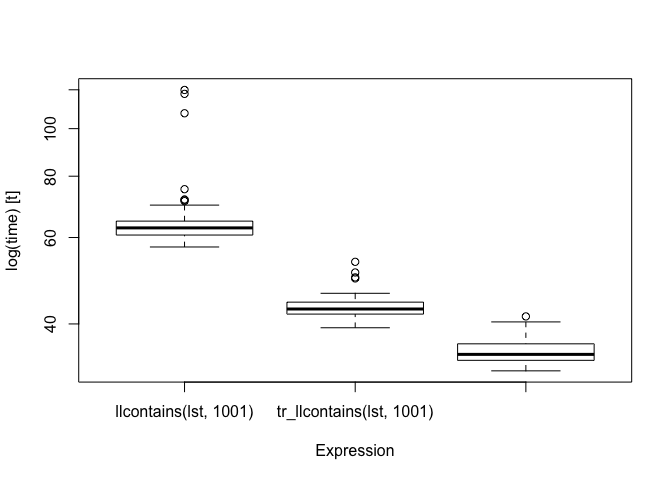
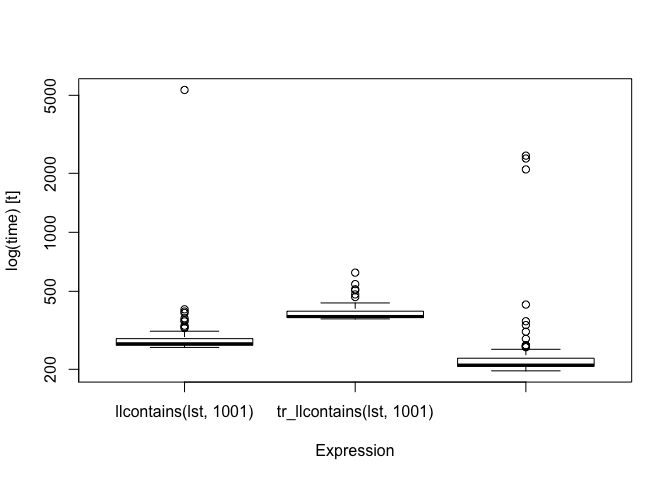
updated documentation to match the new pmatch (that doesn't have the cases function any longer)

diff --git a/README.md b/README.md
@@ -8,7 +8,7 @@
 [![Project Status: Active – The project has reached a stable, usable
 state and is being actively
 developed.](http://www.repostatus.org/badges/latest/active.svg)](http://www.repostatus.org/#active)
-[![Last-changedate](https://img.shields.io/badge/last%20change-2018--08--27-green.svg)](/commits/master)
+[![Last-changedate](https://img.shields.io/badge/last%20change-2018--12--19-green.svg)](/commits/master)
 [![packageversion](https://img.shields.io/badge/Package%20version-0.1.2.9000-green.svg?style=flat-square)](commits/master)
 [![Travis build
 status](https://travis-ci.org/mailund/tailr.svg?branch=master)](https://travis-ci.org/mailund/tailr)
@@ -140,9 +140,9 @@ bm <- microbenchmark::microbenchmark(factorial(n),
 bm
 #> Unit: microseconds
 #>               expr     min       lq      mean   median       uq      max
-#>       factorial(n) 513.691 553.7360 692.20023 588.7665 688.9380 4537.763
-#>    tr_factorial(n) 643.951 672.4245 749.39474 691.8510 729.9475 2066.655
-#>  loop_factorial(n)  40.158  40.6975  67.22614  41.4170  42.7735 2485.322
+#>       factorial(n) 502.353 592.2195 798.68890 676.7220 881.0735 4826.670
+#>    tr_factorial(n) 642.510 695.8220 773.12496 743.4500 776.2790 3023.561
+#>  loop_factorial(n)  48.411  50.1175  76.43362  51.3625  54.0435 2296.244
 #>  neval
 #>    100
 #>    100
@@ -168,11 +168,10 @@ recursive functions that matches different patterns of their input. A
 function for computing the length of a linked list can look like this:
 
 ``` r
-llength <- function(llist, acc = 0) {
-    cases(llist,
-          NIL -> acc,
-          CONS(car, cdr) -> llength(cdr, acc + 1))
-}
+llength <- case_func(acc = 0,
+   NIL -> acc,
+   CONS(car, cdr) -> llength(cdr, acc + 1)
+)
 ```
 
 ``` r
@@ -183,22 +182,31 @@ The function we generate is rather complicated
 
 ``` r
 body(tr_llength)
-#> .Primitive("{")(.tailr_llist <- llist, .tailr_acc <- acc, callCC(function(escape) {
-#>     repeat {
-#>         .Primitive("{")(llist <- .tailr_llist, acc <- .tailr_acc, 
-#>             {
-#>                 if (!rlang::is_null(..match_env <- pmatch::test_pattern(llist, 
-#>                   NIL))) 
-#>                   with(..match_env, escape(acc))
-#>                 else if (!rlang::is_null(..match_env <- pmatch::test_pattern(llist, 
-#>                   CONS(car, cdr)))) 
-#>                   with(..match_env, {
-#>                     .tailr_llist <<- cdr
-#>                     .tailr_acc <<- acc + 1
-#>                   })
-#>             }, next)
-#>     }
-#> }))
+#> .Primitive("{")(.tailr_.match_expr <- .match_expr, .tailr_acc <- acc, 
+#>     callCC(function(escape) {
+#>         repeat {
+#>             .Primitive("{")(.match_expr <- .tailr_.match_expr, 
+#>                 acc <- .tailr_acc, if (is.na(.match_expr) && 
+#>                   attr(.match_expr, "constructor") == "NIL") 
+#>                   escape(acc)
+#>                 else if ({
+#>                   .cons <- attr(.match_expr, "constructor")
+#>                   !is.null(.cons) && .cons == "CONS"
+#>                 } && {
+#>                   car <- .match_expr$car
+#>                   TRUE
+#>                 } && {
+#>                   cdr <- .match_expr$cdr
+#>                   TRUE
+#>                 }) {
+#>                   .tailr_.match_expr <<- cdr
+#>                   .tailr_acc <<- acc + 1
+#>                 }
+#>                 else {
+#>                   escape(stop("None of the patterns match."))
+#>                 }, next)
+#>         }
+#>     }))
 ```
 
 but, then, it is not one we want to manually inspect in any case.
@@ -207,7 +215,7 @@ It is not too hard to implement this function with a loop either, but it
 is not as simple as the recursive function:
 
 ``` r
-is_nil <- function(llist) cases(llist, NIL -> TRUE, otherwise -> FALSE)
+is_nil <- case_func(NIL -> TRUE, otherwise -> FALSE)
 loop_llength <- function(llist) {
     len <- 0
     while (!is_nil(llist)) {
@@ -235,58 +243,28 @@ bm <- microbenchmark::microbenchmark(llength(test_llist),
                                      tr_llength(test_llist),
                                      loop_llength(test_llist))
 bm
-#> Unit: milliseconds
-#>                      expr      min       lq     mean   median       uq
-#>       llength(test_llist) 53.76697 58.99930 65.33068 61.43352 70.43616
-#>    tr_llength(test_llist) 38.45880 40.90436 44.03367 42.38753 44.89655
-#>  loop_llength(test_llist) 31.69172 34.17297 36.85065 35.24668 39.61324
-#>        max neval
-#>  143.49614   100
-#>   62.86479   100
-#>   49.27966   100
+#> Unit: microseconds
+#>                      expr     min       lq     mean   median       uq
+#>       llength(test_llist) 265.918 285.5995 366.3221 304.5285 339.3260
+#>    tr_llength(test_llist) 355.793 373.5675 463.0679 400.2200 429.5800
+#>  loop_llength(test_llist) 144.501 158.7770 220.5217 171.1740 189.5785
+#>       max neval
+#>  4607.342   100
+#>  3056.753   100
+#>  4389.339   100
 boxplot(bm)
 ```
 
 <img src="man/figures/README-unnamed-chunk-11-1.png" width="100%" />
 
-As you have no doubt noticed about `llength`, it is not in fact
-tail-recursive, from the look of it, since the final recursion is
-enclosed by a call to `cases`. The function is only tail-recursive
-because it can be translated into one by rewriting the `cases` function
-call to a sequence of `if`-statements. The `tailr` package doesn’t
-handle `cases` from `pmatch` by knowing about this package. Instead, it
-has a mechanism that lets you provide re-writing rules.
-
-If you set the attribute “tailr\_transform” on a function, and set this
-attribute to a function, then that function will be called when `tailr`
-sees the function, before it attempts any other processing. The
-attribute must be a function that maps an expression to another,
-re-written, expression. The one for `cases` looks like this:
-
-``` r
-tailr_transform_call <- function(expr) {
-    stopifnot(rlang::call_name(expr) == "cases")
-
-    args <- rlang::call_args(expr)
-    value <- args[[1]]
-    patterns <- args[-1]
-    eval(rlang::expr(cases_expr(!!value, !!!patterns)))
-}
-attr(cases, "tailr_transform") <- tailr_transform_call
-```
-
-You can use this mechanism to support tail-recursion for
-non-tail-recursive functions that can be rewritten to be tail-recursive.
-
 More examples:
 
 ``` r
-llcontains <- function(lst, x) {
-    cases(lst, 
-          NIL -> FALSE,
-          CONS(car, cdr) -> if (car == x) TRUE else llcontains(cdr, x)
-    )
-}
+llcontains <- case_func(x,
+    NIL -> FALSE,
+    CONS(car, cdr) -> if (car == x) TRUE else llcontains(cdr, x)
+)
+
 tr_llcontains <- tailr::loop_transform(llcontains)
 
 loop_contains <- function(lst, x) {
@@ -301,37 +279,32 @@ bm <- microbenchmark::microbenchmark(llcontains(lst, 1001),
                                      tr_llcontains(lst, 1001),
                                      loop_contains(lst, 1001))
 bm
-#> Unit: milliseconds
-#>                      expr      min       lq     mean   median       uq
-#>     llcontains(lst, 1001) 57.39536 60.70168 64.48344 62.77156 64.79832
-#>  tr_llcontains(lst, 1001) 39.28990 41.88991 43.20265 42.90343 44.30597
-#>  loop_contains(lst, 1001) 32.09799 33.72188 35.15433 34.67652 36.43608
-#>        max neval
-#>  119.90418   100
-#>   53.53174   100
-#>   41.43686   100
+#> Unit: microseconds
+#>                      expr     min       lq     mean   median       uq
+#>     llcontains(lst, 1001) 258.625 265.2965 331.9641 270.0955 286.8210
+#>  tr_llcontains(lst, 1001) 361.643 367.0120 387.4455 372.1275 395.8610
+#>  loop_contains(lst, 1001) 196.441 206.9190 286.2056 210.2610 227.8175
+#>       max neval
+#>  5324.857   100
+#>   622.783   100
+#>  2461.244   100
 boxplot(bm)
 ```
 
 <img src="man/figures/README-unnamed-chunk-12-1.png" width="100%" />
 
 ``` r
-llrev <- function(llist, acc = NIL) {
-    pmatch::cases(
-        llist,
-        NIL -> acc,
-        CONS(car, cdr) -> llrev(cdr, CONS(car, acc))
-    )
-}
+llrev <- pmatch::case_func(acc = NIL,
+    NIL -> acc,
+    CONS(car, cdr) -> llrev(cdr, CONS(car, acc))
+)
 
-bubble <- function(llist, swapped = FALSE, acc = NIL) {
-    cases(llist,
-          CONS(first, CONS(second, rest)) -> 
-              if (first > second) bubble(CONS(first, rest), TRUE, CONS(second, acc))
-              else bubble(CONS(second, rest), swapped, CONS(first, acc)),
-          CONS(x, NIL) -> list(new_list = llrev(CONS(x, acc)), swapped = swapped)
-    )
-}
+bubble <- case_func(swapped = FALSE, acc = NIL,
+    CONS(first, CONS(second, rest)) -> 
+        if (first > second) bubble(CONS(first, rest), TRUE, CONS(second, acc))
+        else bubble(CONS(second, rest), swapped, CONS(first, acc)),
+    CONS(x, NIL) -> list(new_list = llrev(CONS(x, acc)), swapped = swapped)
+)
 
 bubble_sort <- function(lst) {
     if (is_nil(lst)) return(lst)
@@ -348,23 +321,19 @@ bubble_sort(lst)
 ```
 
 ``` r
-tr_llrev <- function(llist, acc = NIL) {
-    pmatch::cases(
-        llist,
-        NIL -> acc,
-        CONS(car, cdr) -> llrev(cdr, CONS(car, acc))
-    )
-}
+tr_llrev <- pmatch::case_func(acc = NIL,
+    NIL -> acc,
+    CONS(car, cdr) -> llrev(cdr, CONS(car, acc))
+)
+
 tr_llrev <- tailr::loop_transform(tr_llrev)
 
-tr_bubble <- function(llist, swapped = FALSE, acc = NIL) {
-    cases(llist,
-          CONS(first, CONS(second, rest)) -> 
-              if (first > second) tr_bubble(CONS(first, rest), TRUE, CONS(second, acc))
-              else tr_bubble(CONS(second, rest), swapped, CONS(first, acc)),
-          CONS(x, NIL) -> list(new_list = tr_llrev(CONS(x, acc)), swapped = swapped)
-    )
-}
+tr_bubble <- case_func(swapped = FALSE, acc = NIL,
+    CONS(first, CONS(second, rest)) -> 
+        if (first > second) tr_bubble(CONS(first, rest), TRUE, CONS(second, acc))
+        else tr_bubble(CONS(second, rest), swapped, CONS(first, acc)),
+    CONS(x, NIL) -> list(new_list = tr_llrev(CONS(x, acc)), swapped = swapped)
+)
 tr_bubble <- tailr::loop_transform(tr_bubble)
 
 tr_bubble_sort <- function(lst) {
@@ -431,15 +400,15 @@ bm <- microbenchmark::microbenchmark(bubble_sort(lst),
                                      tr_bubble_sort(lst),
                                      loop_bubble(lst))
 bm
-#> Unit: milliseconds
-#>                 expr        min        lq       mean     median        uq
-#>     bubble_sort(lst) 145.075067 154.17486 157.796604 157.519846 160.66723
-#>  tr_bubble_sort(lst) 124.090615 131.36796 134.359320 133.240386 135.12681
-#>     loop_bubble(lst)   8.558761   9.19512   9.889474   9.600241  10.44961
+#> Unit: microseconds
+#>                 expr      min       lq      mean   median       uq
+#>     bubble_sort(lst) 3455.177 3704.927 4142.7253 3938.028 4169.132
+#>  tr_bubble_sort(lst) 3823.526 4093.134 4485.9163 4251.283 4488.590
+#>     loop_bubble(lst)  104.768  114.279  125.2882  122.227  131.301
 #>        max neval
-#>  198.65582   100
-#>  181.74624   100
-#>   15.54705   100
+#>   6587.043   100
+#>  11726.912   100
+#>    206.499   100
 boxplot(bm)
 ```
 
